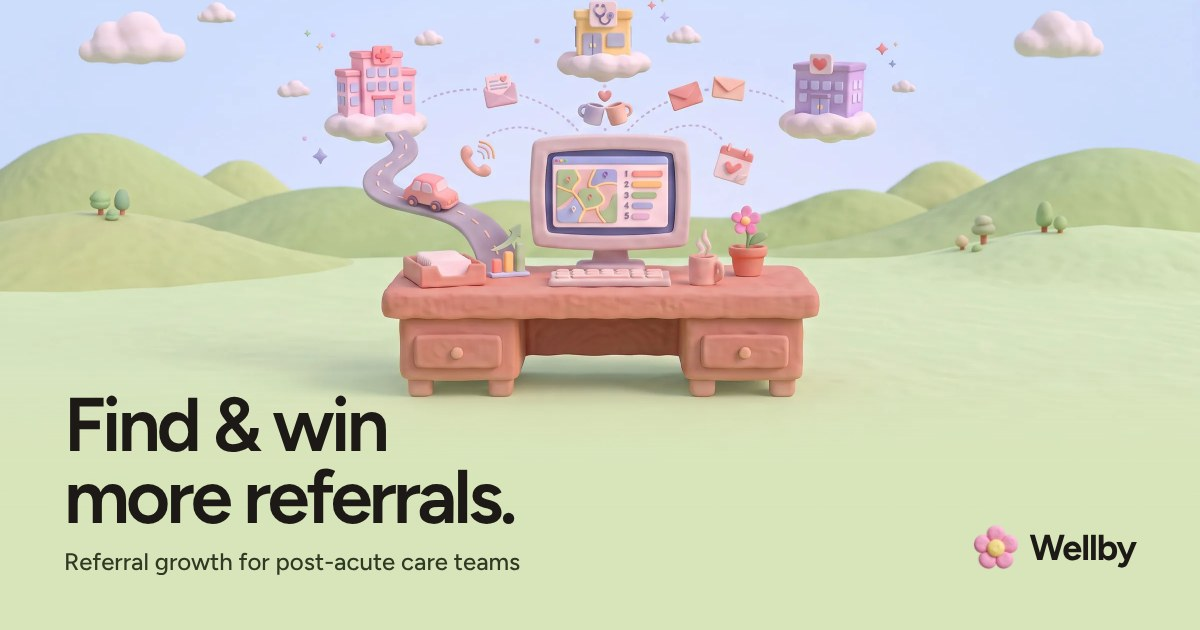
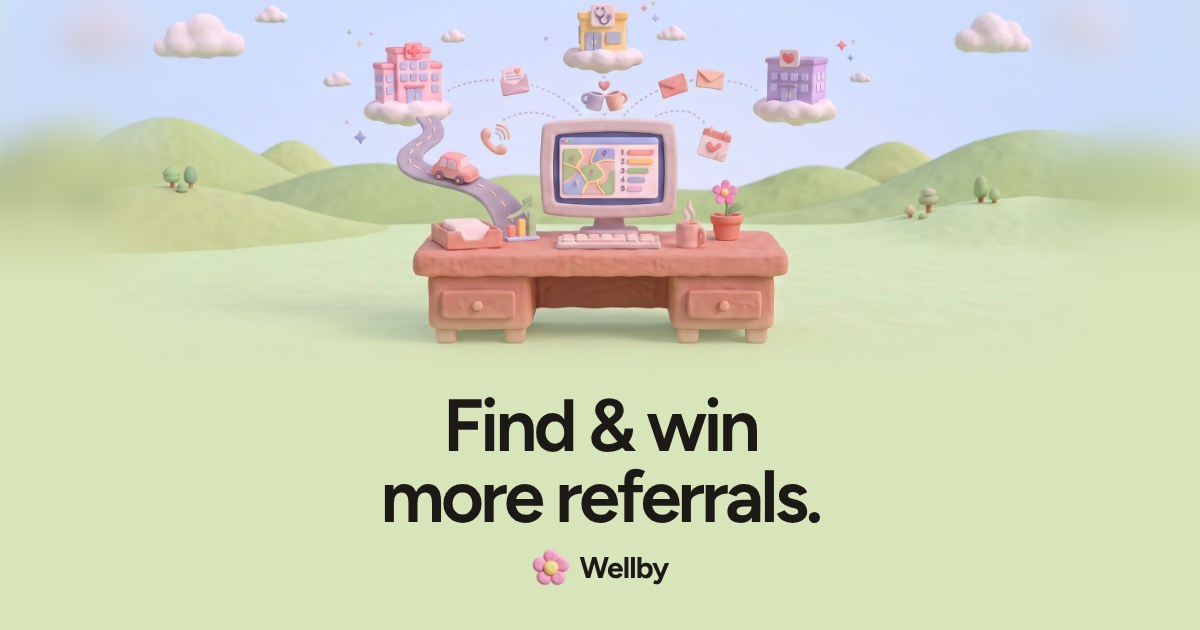
Site: mobile hero and share preview tuned
Mobile hero: tighter 3:2 crop of the green-hills scene (no empty floor),
smaller headline, side-by-side CTAs; the primary CTA and fine print now
sit in the first screen on iPhone SE through Pro Max and Pixel. Home
theme-color matches the sky so the phone browser bar blends in.

Share image: centered two-line headline and logo under the scene, so
square crops (iMessage, WhatsApp) still show the message and brand.
Adds og:image:type and twitter:image:alt; cache-busted to v=20261103h.

Claude-Session: https://claude.ai/code/session_01GTuT34r1zaxw7MT3uvLgSN

diff --git a/site/public/index.html b/site/public/index.html
@@ -6,26 +6,28 @@
 <meta name="viewport" content="width=device-width,initial-scale=1">
 <title>Wellby: Find &amp; Win More Referrals in Post-Acute Care</title>
 <meta name="description" content="See every hospital and doctor around you, win their referrals with outreach agents draft for you, and prove what it won. Start a 14-day free trial.">
-<meta name="theme-color" content="#F9F8F6">
+<meta name="theme-color" content="#CEDDFC">
 <link rel="canonical" href="https://wellbyinroads.com/">
 <meta property="og:type" content="website">
 <meta property="og:site_name" content="Wellby">
 <meta property="og:title" content="Wellby: Find &amp; Win More Referrals in Post-Acute Care">
 <meta property="og:description" content="See every hospital and doctor around you, win their referrals with outreach agents draft for you, and prove what it won. Start a 14-day free trial.">
 <meta property="og:url" content="https://wellbyinroads.com/">
-<meta property="og:image" content="https://wellbyinroads.com/og.jpg?v=20261103g">
+<meta property="og:image" content="https://wellbyinroads.com/og.jpg?v=20261103h">
+<meta property="og:image:type" content="image/jpeg">
 <meta property="og:image:width" content="1200">
 <meta property="og:image:height" content="630">
 <meta property="og:image:alt" content="Illustrated clay desk in green hills, reaching a hospital, a doctor's office and a nursing facility by car visit, coffee, calls and email, with the line: Find &amp; win more referrals.">
 <meta name="twitter:card" content="summary_large_image">
 <meta name="twitter:title" content="Wellby: Find &amp; Win More Referrals in Post-Acute Care">
 <meta name="twitter:description" content="See every hospital and doctor around you, win their referrals with outreach agents draft for you, and prove what it won. Start a 14-day free trial.">
-<meta name="twitter:image" content="https://wellbyinroads.com/og.jpg?v=20261103g">
+<meta name="twitter:image" content="https://wellbyinroads.com/og.jpg?v=20261103h">
+<meta name="twitter:image:alt" content="Illustrated clay desk in green hills, reaching a hospital, a doctor's office and a nursing facility by car visit, coffee, calls and email, with the line: Find &amp; win more referrals.">
 <link rel="icon" href="/favicon-32.png?v=3" sizes="32x32" type="image/png">
 <link rel="apple-touch-icon" href="/apple-touch-icon.png?v=3">
 <link rel="preload" href="/fonts/figtree-latin-wght-normal.woff2" as="font" type="font/woff2" crossorigin>
 <link rel="preload" as="image" href="/img/g-hero-green-1600.webp" imagesrcset="/img/g-hero-green-1000.webp 1000w, /img/g-hero-green-1600.webp 1600w, /img/g-hero-green-2400.webp 2400w, /img/g-hero-green-2752.webp 2752w" imagesizes="100vw" media="(min-width: 761px)" fetchpriority="high">
-<link rel="preload" as="image" href="/img/g-hero-green-m-800.webp" imagesrcset="/img/g-hero-green-m-800.webp 800w, /img/g-hero-green-m-1200.webp 1200w" imagesizes="100vw" media="(max-width: 760px)" fetchpriority="high">
+<link rel="preload" as="image" href="/img/g-hero-green-m2-800.webp" imagesrcset="/img/g-hero-green-m2-800.webp 800w, /img/g-hero-green-m2-1200.webp 1200w" imagesizes="100vw" media="(max-width: 760px)" fetchpriority="high">
 <link rel="stylesheet" href="/styles.css">
 <link rel="stylesheet" href="/v2.css">
 <link rel="stylesheet" href="/site.css">
@@ -60,7 +62,7 @@
 <main id="main">
 <section class="hero hero2" aria-labelledby="hero-title">
   <picture class="h2-art">
-    <source media="(max-width: 760px)" srcset="/img/g-hero-green-m-800.webp 800w, /img/g-hero-green-m-1200.webp 1200w" sizes="100vw">
+    <source media="(max-width: 760px)" srcset="/img/g-hero-green-m2-800.webp 800w, /img/g-hero-green-m2-1200.webp 1200w" sizes="100vw">
     <img src="/img/g-hero-green-1600.webp" srcset="/img/g-hero-green-1000.webp 1000w, /img/g-hero-green-1600.webp 1600w, /img/g-hero-green-2400.webp 2400w, /img/g-hero-green-2752.webp 2752w" sizes="100vw" width="2752" height="1536" alt="Illustration: a clay desk whose monitor shows a map and a ranked list of referral sources, reaching a hospital, a doctor's office and a nursing facility by car visit, coffee, calls, calendar invites and email, set in green hills under a blue sky." fetchpriority="high">
   </picture>
   <div class="wrap h2-copy">

diff --git a/site/public/blog/index.html b/site/public/blog/index.html
@@ -13,14 +13,16 @@
 <meta property="og:title" content="Blog: Referral Marketing for Post-Acute Care | Wellby">
 <meta property="og:description" content="Practical guides for post-acute business development, sales and marketing teams: finding referral sources, measuring referral share, and outreach that works.">
 <meta property="og:url" content="https://wellbyinroads.com/blog">
-<meta property="og:image" content="https://wellbyinroads.com/og.jpg?v=20261103g">
+<meta property="og:image" content="https://wellbyinroads.com/og.jpg?v=20261103h">
+<meta property="og:image:type" content="image/jpeg">
 <meta property="og:image:width" content="1200">
 <meta property="og:image:height" content="630">
 <meta property="og:image:alt" content="Illustrated clay desk in green hills, reaching a hospital, a doctor's office and a nursing facility by car visit, coffee, calls and email, with the line: Find &amp; win more referrals.">
 <meta name="twitter:card" content="summary_large_image">
 <meta name="twitter:title" content="Blog: Referral Marketing for Post-Acute Care | Wellby">
 <meta name="twitter:description" content="Practical guides for post-acute business development, sales and marketing teams: finding referral sources, measuring referral share, and outreach that works.">
-<meta name="twitter:image" content="https://wellbyinroads.com/og.jpg?v=20261103g">
+<meta name="twitter:image" content="https://wellbyinroads.com/og.jpg?v=20261103h">
+<meta name="twitter:image:alt" content="Illustrated clay desk in green hills, reaching a hospital, a doctor's office and a nursing facility by car visit, coffee, calls and email, with the line: Find &amp; win more referrals.">
 <link rel="alternate" type="application/rss+xml" title="Wellby blog" href="https://wellbyinroads.com/blog/rss.xml">
 <link rel="icon" href="/favicon-32.png?v=3" sizes="32x32" type="image/png">
 <link rel="apple-touch-icon" href="/apple-touch-icon.png?v=3">

diff --git a/site/public/compare/definitive-healthcare.html b/site/public/compare/definitive-healthcare.html
@@ -11,12 +11,14 @@
 <meta property="og:title" content="Wellby vs Definitive Healthcare: Comparison | Wellby">
 <meta property="og:description" content="Definitive Healthcare gives you market data. Wellby is built to turn it into referrals: ranked outreach, drafted messages and follow-up until partners reply.">
 <meta property="og:url" content="https://wellbyinroads.com/compare/definitive-healthcare">
-<meta property="og:image" content="https://wellbyinroads.com/og.jpg?v=20261103g">
+<meta property="og:image" content="https://wellbyinroads.com/og.jpg?v=20261103h">
+<meta property="og:image:type" content="image/jpeg">
 <meta property="og:image:width" content="1200">
 <meta property="og:image:height" content="630">
 <meta property="og:image:alt" content="Illustrated clay desk in green hills, reaching a hospital, a doctor's office and a nursing facility by car visit, coffee, calls and email, with the line: Find &amp; win more referrals.">
 <meta name="twitter:card" content="summary_large_image">
-<meta name="twitter:image" content="https://wellbyinroads.com/og.jpg?v=20261103g">
+<meta name="twitter:image" content="https://wellbyinroads.com/og.jpg?v=20261103h">
+<meta name="twitter:image:alt" content="Illustrated clay desk in green hills, reaching a hospital, a doctor's office and a nursing facility by car visit, coffee, calls and email, with the line: Find &amp; win more referrals.">
 <link rel="canonical" href="https://wellbyinroads.com/compare/definitive-healthcare">
 <link rel="icon" href="/favicon-32.png?v=3" sizes="32x32" type="image/png">
 <link rel="apple-touch-icon" href="/apple-touch-icon.png?v=3">

diff --git a/site/public/privacy.html b/site/public/privacy.html
@@ -18,12 +18,14 @@
 <meta property="og:title" content="Privacy Notice | Wellby">
 <meta property="og:url" content="https://wellbyinroads.com/privacy">
 <meta property="og:description" content="How Wellby handles the information you share through the wellbyinroads.com website.">
-<meta property="og:image" content="https://wellbyinroads.com/og.jpg?v=20261103g">
+<meta property="og:image" content="https://wellbyinroads.com/og.jpg?v=20261103h">
+<meta property="og:image:type" content="image/jpeg">
 <meta property="og:image:width" content="1200">
 <meta property="og:image:height" content="630">
 <meta property="og:image:alt" content="Illustrated clay desk in green hills, reaching a hospital, a doctor's office and a nursing facility by car visit, coffee, calls and email, with the line: Find &amp; win more referrals.">
 <meta name="twitter:card" content="summary_large_image">
-<meta name="twitter:image" content="https://wellbyinroads.com/og.jpg?v=20261103g">
+<meta name="twitter:image" content="https://wellbyinroads.com/og.jpg?v=20261103h">
+<meta name="twitter:image:alt" content="Illustrated clay desk in green hills, reaching a hospital, a doctor's office and a nursing facility by car visit, coffee, calls and email, with the line: Find &amp; win more referrals.">
 <script type="application/ld+json">{"@context":"https://schema.org","@type":"BreadcrumbList","itemListElement":[{"@type":"ListItem","position":1,"name":"Home","item":"https://wellbyinroads.com/"},{"@type":"ListItem","position":2,"name":"Privacy","item":"https://wellbyinroads.com/privacy"}]}</script>
 </head>
 <body class="doc-page">

diff --git a/site/public/specialties.html b/site/public/specialties.html
@@ -11,12 +11,14 @@
 <meta property="og:title" content="Referral Software for 18 Care Specialties | Wellby">
 <meta property="og:description" content="Built for home health, hospice, skilled nursing, home care, behavioral health and more. See who refers to you and win more referrals in each specialty.">
 <meta property="og:url" content="https://wellbyinroads.com/specialties">
-<meta property="og:image" content="https://wellbyinroads.com/og.jpg?v=20261103g">
+<meta property="og:image" content="https://wellbyinroads.com/og.jpg?v=20261103h">
+<meta property="og:image:type" content="image/jpeg">
 <meta property="og:image:width" content="1200">
 <meta property="og:image:height" content="630">
 <meta property="og:image:alt" content="Illustrated clay desk in green hills, reaching a hospital, a doctor's office and a nursing facility by car visit, coffee, calls and email, with the line: Find &amp; win more referrals.">
 <meta name="twitter:card" content="summary_large_image">
-<meta name="twitter:image" content="https://wellbyinroads.com/og.jpg?v=20261103g">
+<meta name="twitter:image" content="https://wellbyinroads.com/og.jpg?v=20261103h">
+<meta name="twitter:image:alt" content="Illustrated clay desk in green hills, reaching a hospital, a doctor's office and a nursing facility by car visit, coffee, calls and email, with the line: Find &amp; win more referrals.">
 <link rel="canonical" href="https://wellbyinroads.com/specialties">
 <link rel="icon" href="/favicon-32.png?v=3" sizes="32x32" type="image/png">
 <link rel="apple-touch-icon" href="/apple-touch-icon.png?v=3">

diff --git a/site/public/compare/trella.html b/site/public/compare/trella.html
@@ -11,12 +11,14 @@
 <meta property="og:title" content="Wellby vs Trella Health: Comparison | Wellby">
 <meta property="og:description" content="Trella Health gives you claims data and a CRM. Wellby is built to do the outreach work: rank who to contact, draft every message and follow up.">
 <meta property="og:url" content="https://wellbyinroads.com/compare/trella">
-<meta property="og:image" content="https://wellbyinroads.com/og.jpg?v=20261103g">
+<meta property="og:image" content="https://wellbyinroads.com/og.jpg?v=20261103h">
+<meta property="og:image:type" content="image/jpeg">
 <meta property="og:image:width" content="1200">
 <meta property="og:image:height" content="630">
 <meta property="og:image:alt" content="Illustrated clay desk in green hills, reaching a hospital, a doctor's office and a nursing facility by car visit, coffee, calls and email, with the line: Find &amp; win more referrals.">
 <meta name="twitter:card" content="summary_large_image">
-<meta name="twitter:image" content="https://wellbyinroads.com/og.jpg?v=20261103g">
+<meta name="twitter:image" content="https://wellbyinroads.com/og.jpg?v=20261103h">
+<meta name="twitter:image:alt" content="Illustrated clay desk in green hills, reaching a hospital, a doctor's office and a nursing facility by car visit, coffee, calls and email, with the line: Find &amp; win more referrals.">
 <link rel="canonical" href="https://wellbyinroads.com/compare/trella">
 <link rel="icon" href="/favicon-32.png?v=3" sizes="32x32" type="image/png">
 <link rel="apple-touch-icon" href="/apple-touch-icon.png?v=3">

diff --git a/site/public/pricing.html b/site/public/pricing.html
@@ -11,12 +11,14 @@
 <meta property="og:title" content="Pricing: Solo, Team and Enterprise Plans | Wellby">
 <meta property="og:description" content="Wellby Solo is $149/month for one user. Team is $249/month with 3 users. Enterprise adds team performance insights, from 10 users. 14-day free trial.">
 <meta property="og:url" content="https://wellbyinroads.com/pricing">
-<meta property="og:image" content="https://wellbyinroads.com/og.jpg?v=20261103g">
+<meta property="og:image" content="https://wellbyinroads.com/og.jpg?v=20261103h">
+<meta property="og:image:type" content="image/jpeg">
 <meta property="og:image:width" content="1200">
 <meta property="og:image:height" content="630">
 <meta property="og:image:alt" content="Illustrated clay desk in green hills, reaching a hospital, a doctor's office and a nursing facility by car visit, coffee, calls and email, with the line: Find &amp; win more referrals.">
 <meta name="twitter:card" content="summary_large_image">
-<meta name="twitter:image" content="https://wellbyinroads.com/og.jpg?v=20261103g">
+<meta name="twitter:image" content="https://wellbyinroads.com/og.jpg?v=20261103h">
+<meta name="twitter:image:alt" content="Illustrated clay desk in green hills, reaching a hospital, a doctor's office and a nursing facility by car visit, coffee, calls and email, with the line: Find &amp; win more referrals.">
 <link rel="canonical" href="https://wellbyinroads.com/pricing">
 <link rel="icon" href="/favicon-32.png?v=3" sizes="32x32" type="image/png">
 <link rel="apple-touch-icon" href="/apple-touch-icon.png?v=3">

diff --git a/site/public/404.html b/site/public/404.html
@@ -10,12 +10,14 @@
 <meta property="og:site_name" content="Wellby">
 <meta property="og:title" content="Page not found | Wellby">
 <meta property="og:description" content="This page could not be found.">
-<meta property="og:image" content="https://wellbyinroads.com/og.jpg?v=20261103g">
+<meta property="og:image" content="https://wellbyinroads.com/og.jpg?v=20261103h">
+<meta property="og:image:type" content="image/jpeg">
 <meta property="og:image:width" content="1200">
 <meta property="og:image:height" content="630">
 <meta property="og:image:alt" content="Illustrated clay desk in green hills, reaching a hospital, a doctor's office and a nursing facility by car visit, coffee, calls and email, with the line: Find &amp; win more referrals.">
 <meta name="twitter:card" content="summary_large_image">
-<meta name="twitter:image" content="https://wellbyinroads.com/og.jpg?v=20261103g">
+<meta name="twitter:image" content="https://wellbyinroads.com/og.jpg?v=20261103h">
+<meta name="twitter:image:alt" content="Illustrated clay desk in green hills, reaching a hospital, a doctor's office and a nursing facility by car visit, coffee, calls and email, with the line: Find &amp; win more referrals.">
 <link rel="icon" href="/favicon-32.png?v=3" sizes="32x32" type="image/png">
 <link rel="apple-touch-icon" href="/apple-touch-icon.png?v=3">
 <link rel="preload" href="/fonts/figtree-latin-wght-normal.woff2" as="font" type="font/woff2" crossorigin>

diff --git a/site/public/home.css b/site/public/home.css
@@ -89,3 +89,15 @@
 @media(max-width:900px){.acct-grid{grid-template-columns:minmax(0,1fr)}}
 @media(max-width:480px){.acct-vs{grid-template-columns:1fr}.acct-stats{grid-template-columns:repeat(2,1fr)}.acct-card{padding:20px}}
 .acct-top .tag{background:#ecebe6;color:#3b3a36;border:0;padding:3px 8px;border-radius:6px;font-size:12px;font-weight:650;letter-spacing:0;text-transform:none;margin:0}
+
+/* Phone hero (final): tighter 3:2 crop, side-by-side CTAs, primary CTA above the fold even on iPhone SE */
+@media(max-width:760px){
+.h2-art img{aspect-ratio:3/2;height:auto;object-position:50% 0;-webkit-mask-image:linear-gradient(#000 84%,transparent 100%);mask-image:linear-gradient(#000 84%,transparent 100%)}
+.h2-copy{gap:12px;padding-top:0;margin-top:-10px}
+.hero2 h1{font-size:clamp(2.6rem,12.6vw,3.9rem)}
+.h2-what{font-size:16.5px;line-height:1.45}
+.h2-ctas{flex-wrap:nowrap;gap:10px;margin-top:14px}
+.h2-btn{flex:1 1 0;min-width:0;height:50px;font-size:15.5px;padding:0 12px 0 14px;gap:8px;justify-content:space-between;white-space:nowrap}
+.h2-fine{font-size:13.5px;margin-top:10px}
+}
+@media(max-width:374px){.h2-btn{justify-content:center;font-size:15px;padding:0 10px}.h2-btn svg{display:none}.h2-what{font-size:15.5px}}

diff --git a/site/public/blog/find-every-referral-source-with-public-data.html b/site/public/blog/find-every-referral-source-with-public-data.html
@@ -21,6 +21,7 @@
 <meta name="twitter:title" content="How to Find Every Referral Source in Your Territory | Wellby">
 <meta name="twitter:description" content="Why stale referral lists cost you, where public information about hospitals, physicians and facilities lives, and how to keep your territory list honest.">
 <meta name="twitter:image" content="https://wellbyinroads.com/img/og/find-every-referral-source-with-public-data.jpg">
+<meta name="twitter:image:alt" content="Illustrated clay desk in green hills, reaching a hospital, a doctor's office and a nursing facility by car visit, coffee, calls and email, with the line: Find &amp; win more referrals.">
 <link rel="alternate" type="application/rss+xml" title="Wellby blog" href="https://wellbyinroads.com/blog/rss.xml">
 <link rel="icon" href="/favicon-32.png?v=3" sizes="32x32" type="image/png">
 <link rel="apple-touch-icon" href="/apple-touch-icon.png?v=3">

diff --git a/site/public/blog/weekly-plan-for-referral-marketers.html b/site/public/blog/weekly-plan-for-referral-marketers.html
@@ -21,6 +21,7 @@
 <meta name="twitter:title" content="A Weekly Plan for Home Health and Hospice Marketers | Wellby">
 <meta name="twitter:description" content="A simple, repeatable week for community liaisons and business development reps: where to spend time, how to prioritize visits, and what to log.">
 <meta name="twitter:image" content="https://wellbyinroads.com/img/og/weekly-plan-for-referral-marketers.jpg">
+<meta name="twitter:image:alt" content="Illustrated clay desk in green hills, reaching a hospital, a doctor's office and a nursing facility by car visit, coffee, calls and email, with the line: Find &amp; win more referrals.">
 <link rel="alternate" type="application/rss+xml" title="Wellby blog" href="https://wellbyinroads.com/blog/rss.xml">
 <link rel="icon" href="/favicon-32.png?v=3" sizes="32x32" type="image/png">
 <link rel="apple-touch-icon" href="/apple-touch-icon.png?v=3">

diff --git a/site/public/blog/referral-share-the-metric-to-track.html b/site/public/blog/referral-share-the-metric-to-track.html
@@ -21,6 +21,7 @@
 <meta name="twitter:title" content="Referral Share: The Metric Post-Acute Marketers Need">
 <meta name="twitter:description" content="Visit counts tell you how busy your team is. Referral share tells you whether it is working. What it means and why it changes how you plan outreach.">
 <meta name="twitter:image" content="https://wellbyinroads.com/img/og/referral-share-the-metric-to-track.jpg">
+<meta name="twitter:image:alt" content="Illustrated clay desk in green hills, reaching a hospital, a doctor's office and a nursing facility by car visit, coffee, calls and email, with the line: Find &amp; win more referrals.">
 <link rel="alternate" type="application/rss+xml" title="Wellby blog" href="https://wellbyinroads.com/blog/rss.xml">
 <link rel="icon" href="/favicon-32.png?v=3" sizes="32x32" type="image/png">
 <link rel="apple-touch-icon" href="/apple-touch-icon.png?v=3">
